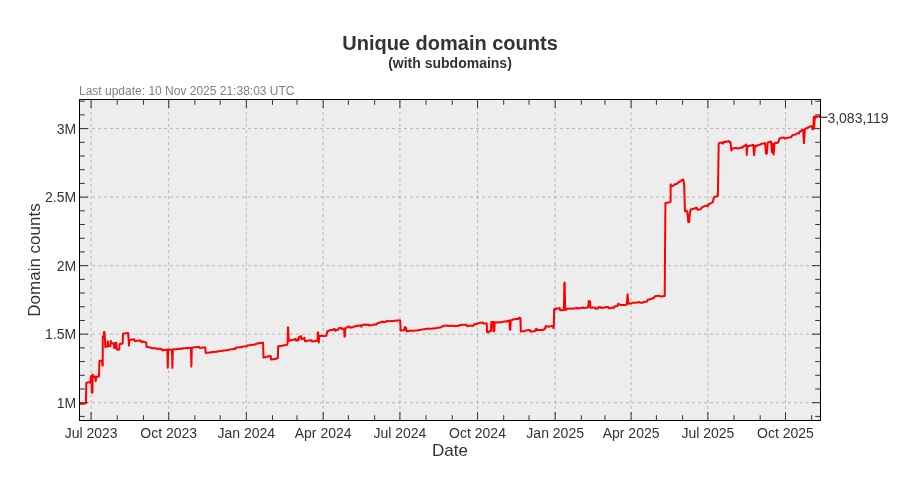
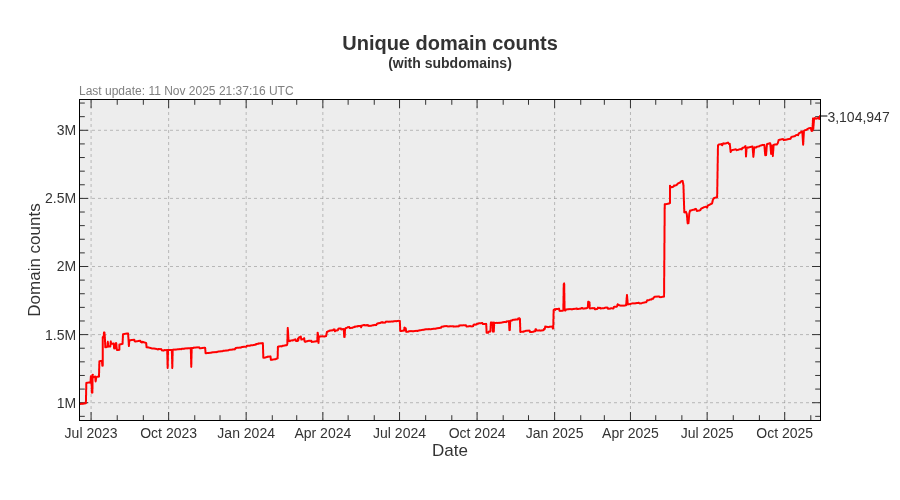
Update pages

diff --git a/README.md b/README.md
@@ -3,22 +3,22 @@ A blocklist file for blocking ads, trackers and malware domains.
 
[1 lines of base64/hex data omitted]
 
-- Unique domains: 3,083,119
-- Without subdomains: 2,362,310
-- Last update: 10 Nov 2025 21:38:03 UTC
-- Version: 2025.11.10.01
+- Unique domains: 3,104,947
+- Without subdomains: 2,383,634
+- Last update: 11 Nov 2025 21:37:16 UTC
+- Version: 2025.11.11.01
 
 
 ### Downloads:
 
 | Format             | Domain count      | Download Link |
 |:------------------ | -----------------:|:-------------:|
-| *Adblock Plus*     | 2,362,310 | [Download](https://dl.cenk.app/bad-hosts/bad-hosts-abp) |
-| *Wildcard domains* | 2,362,310 | [Download](https://dl.cenk.app/bad-hosts/bad-hosts-wildcard) |
-| *dnsmasq*          | 2,362,310 | [Download](https://dl.cenk.app/bad-hosts/bad-hosts-dnsmasq) |
-| *hosts*            | 3,083,119 | [Download](https://dl.cenk.app/bad-hosts/hosts) |
-| *hosts (ipv6)*     | 3,083,119 | [Download](https://dl.cenk.app/bad-hosts/hosts-ipv6) |
-| *Plain domains*    | 3,083,119 | [Download](https://dl.cenk.app/bad-hosts/bad-hosts-domains) |
+| *Adblock Plus*     | 2,383,634 | [Download](https://dl.cenk.app/bad-hosts/bad-hosts-abp) |
+| *Wildcard domains* | 2,383,634 | [Download](https://dl.cenk.app/bad-hosts/bad-hosts-wildcard) |
+| *dnsmasq*          | 2,383,634 | [Download](https://dl.cenk.app/bad-hosts/bad-hosts-dnsmasq) |
+| *hosts*            | 3,104,947 | [Download](https://dl.cenk.app/bad-hosts/hosts) |
+| *hosts (ipv6)*     | 3,104,947 | [Download](https://dl.cenk.app/bad-hosts/hosts-ipv6) |
+| *Plain domains*    | 3,104,947 | [Download](https://dl.cenk.app/bad-hosts/bad-hosts-domains) |
 
 ### Domain count history
 #### With subdomains
